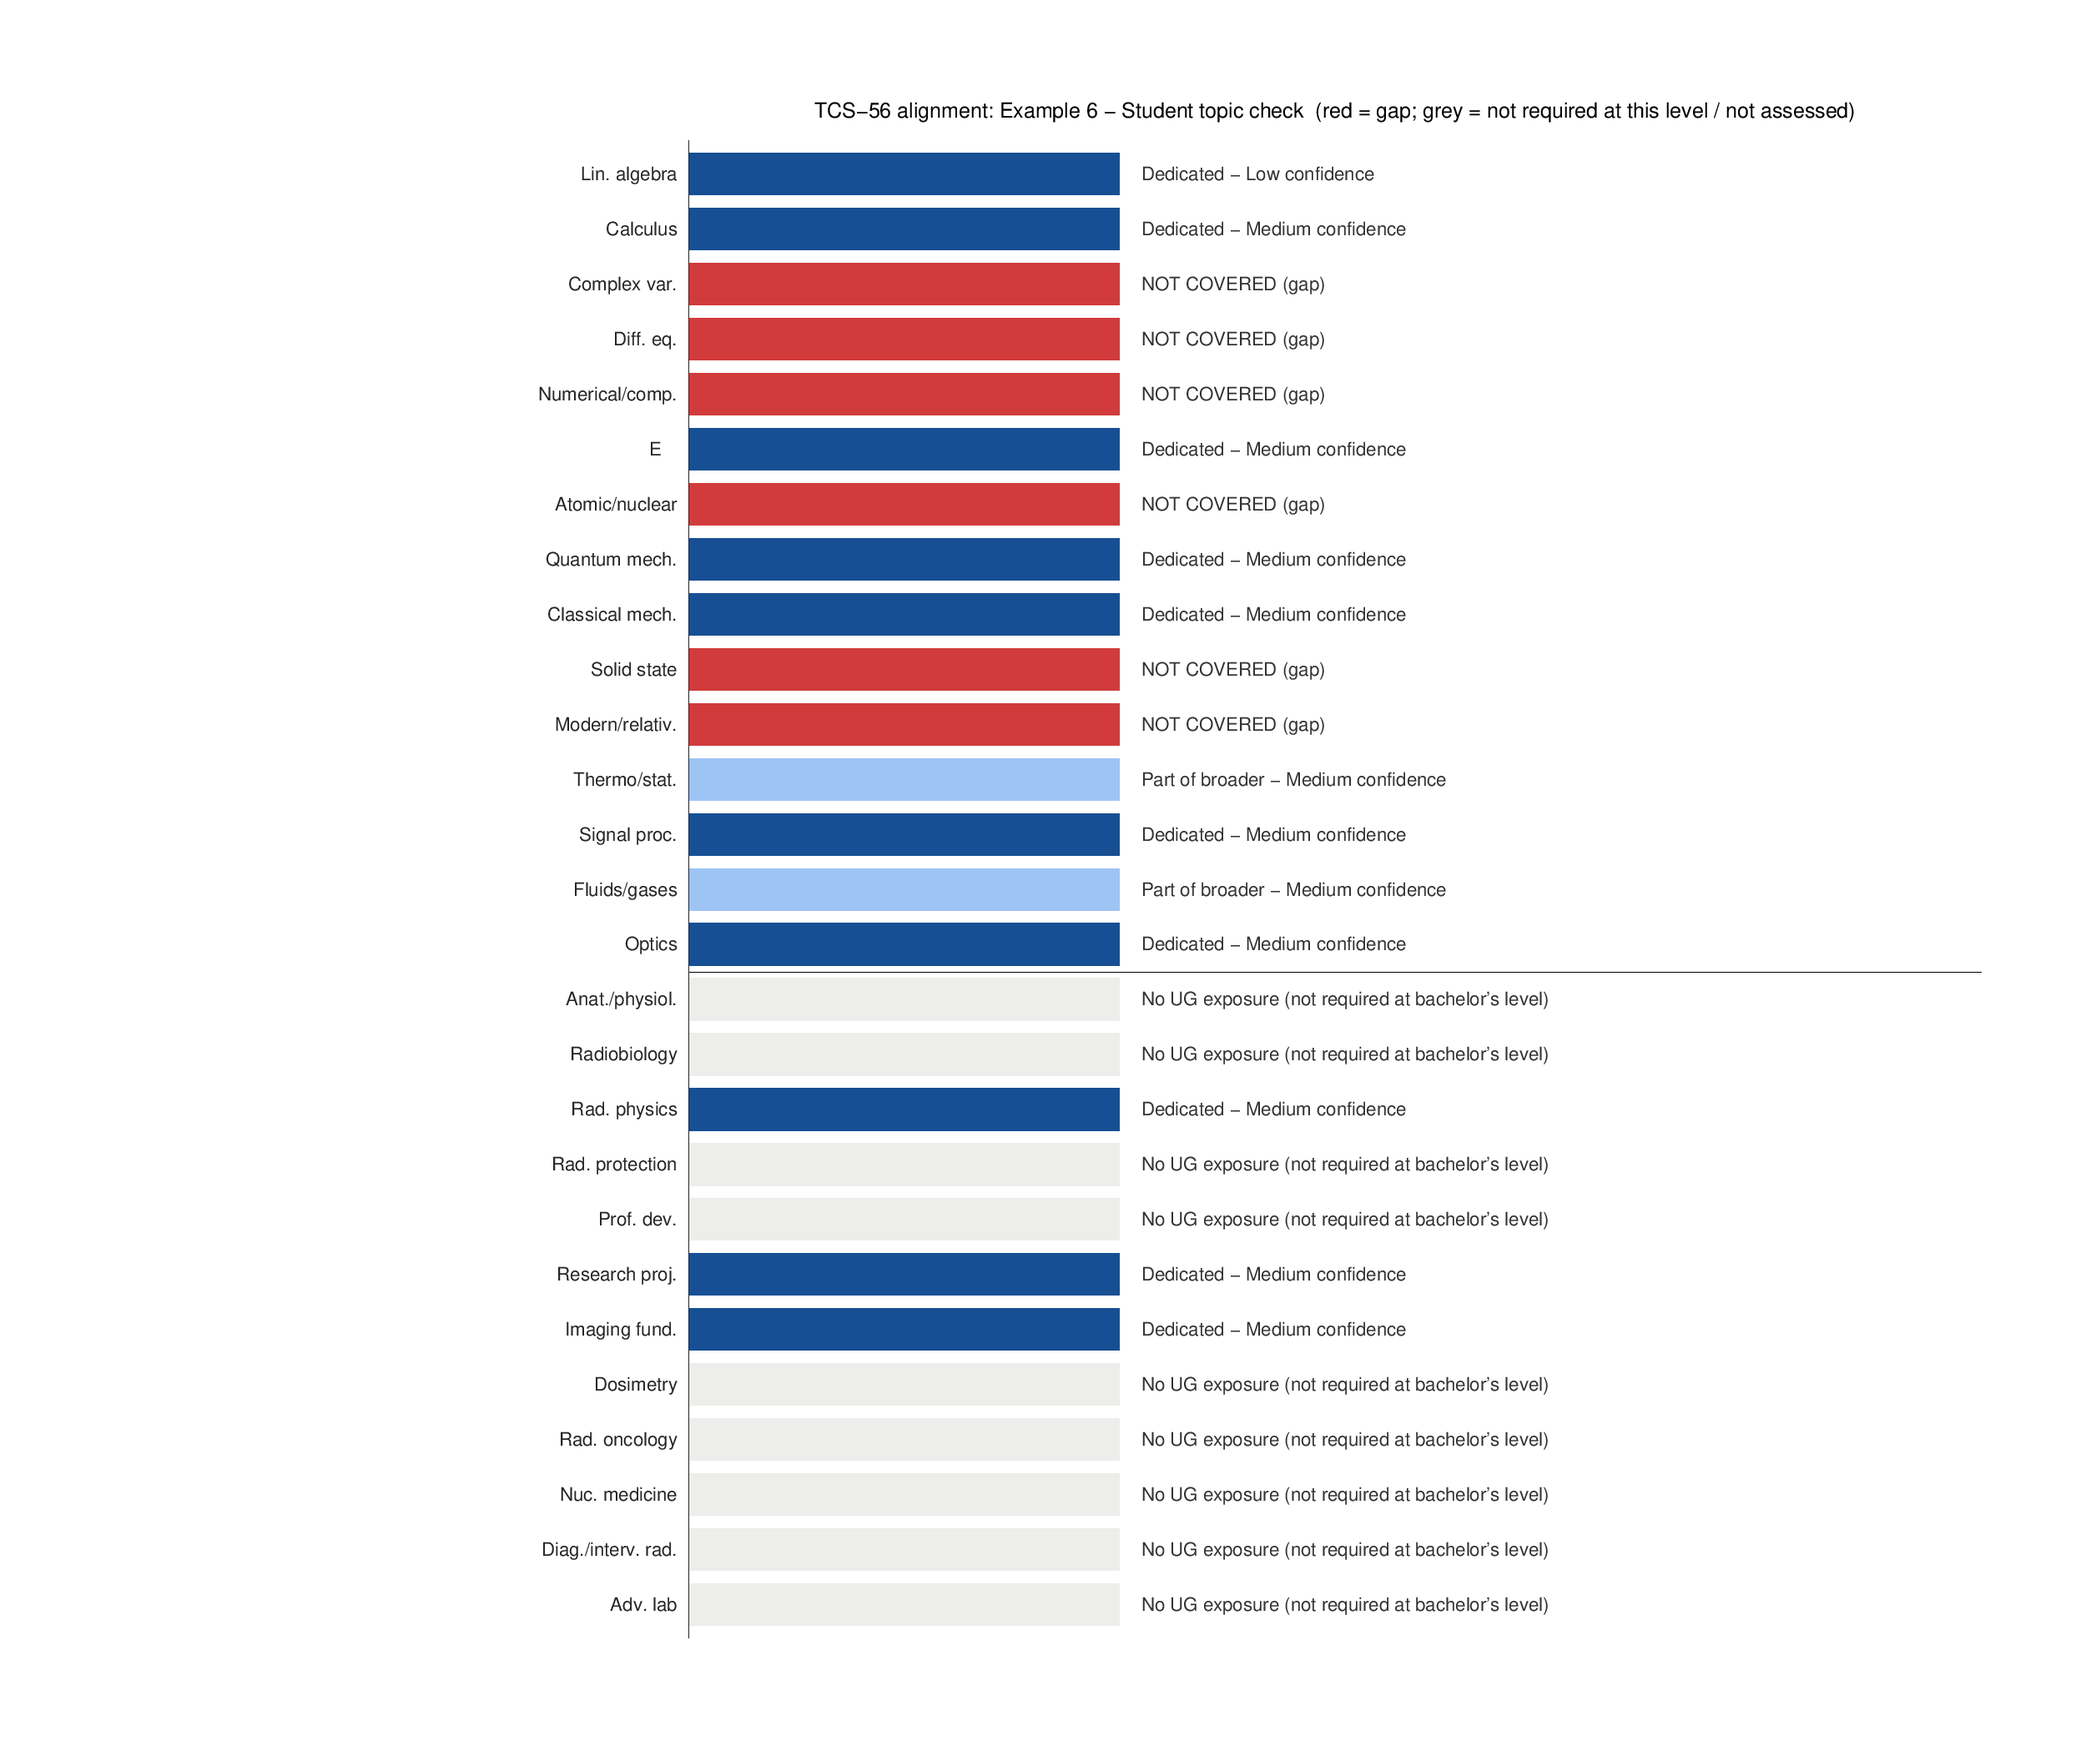
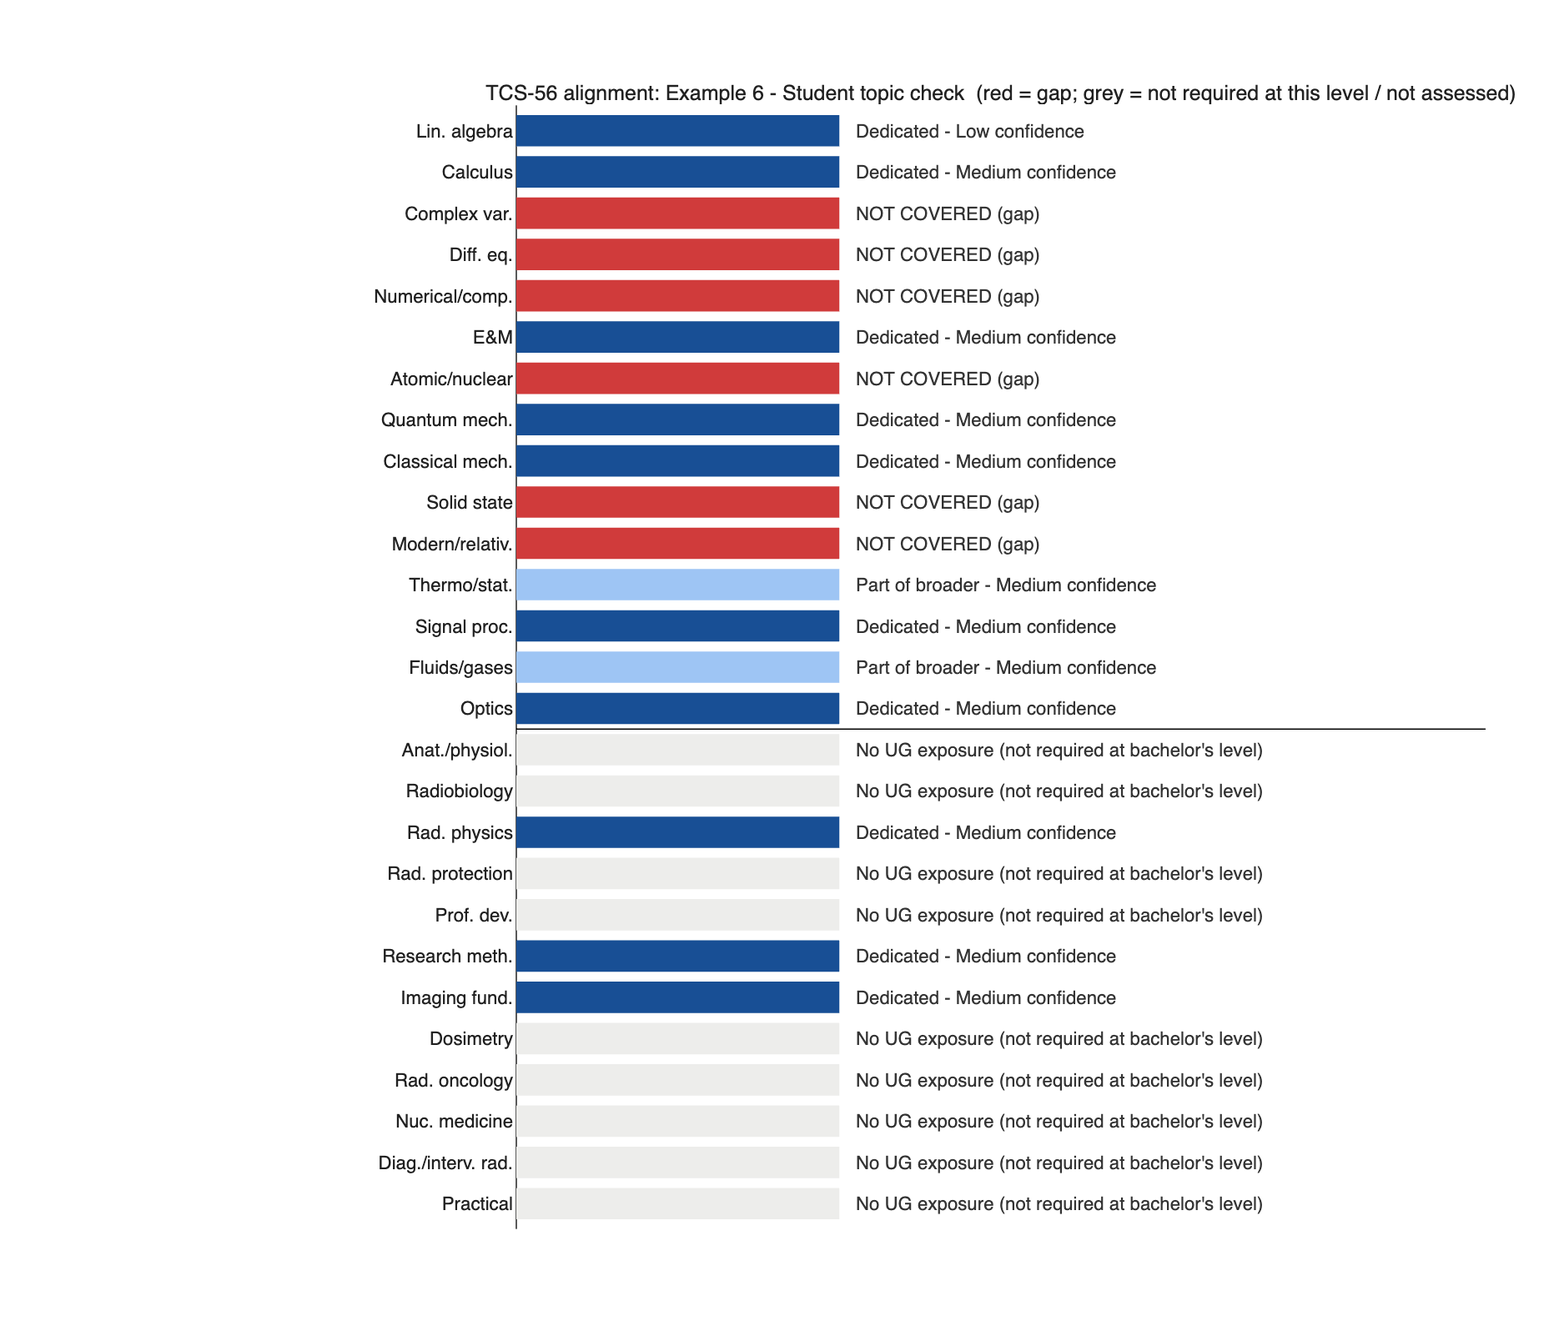
Regenerate example 6 output in MATLAB (TCS-56 item names)
Claude-Session: https://claude.ai/code/session_017GkgYiC1FGVQHbA2DuZDiu

Changed region(s): [[0.2475, 0.0619, 0.9589, 0.928]]

diff --git a/examples/output/ex6/assessment_report.md b/examples/output/ex6/assessment_report.md
@@ -1,6 +1,6 @@
 # TCS-56 alignment: Example 6 - Student topic check
 
-Level: Bachelor. Input: Student (topics only). Generated 2026-11-16.
+Level: Bachelor. Input: Student (topics only). Generated 2026-11-20.
 
 ## Summary
 
@@ -36,13 +36,13 @@ Level: Bachelor. Input: Student (topics only). Generated 2026-11-16.
 | Radiation Physics | Dedicated | Medium | Radiation physics (Medium) |  |
 | Radiation Protection | Not covered |  |  | No undergraduate exposure found. TCS-56 places this item in the postgraduate curriculum, so this is not a bachelor's-level gap. |
 | Professional and Scientific Development | Not covered |  |  | No undergraduate exposure found. TCS-56 places this item in the postgraduate curriculum, so this is not a bachelor's-level gap. |
-| Research Project | Dedicated | Medium | Final year project (Medium) |  |
+| Research Methodology | Dedicated | Medium | Final year project (Medium) |  |
 | Medical Imaging Fundamentals | Dedicated | Medium | Medical imaging (Medium) |  |
 | Radiation Dosimetry | Not covered |  |  | No undergraduate exposure found. TCS-56 places this item in the postgraduate curriculum, so this is not a bachelor's-level gap. |
 | Physics of Radiation Oncology | Not covered |  |  | No undergraduate exposure found. TCS-56 places this item in the postgraduate curriculum, so this is not a bachelor's-level gap. |
 | Physics of Nuclear Medicine | Not covered |  |  | No undergraduate exposure found. TCS-56 places this item in the postgraduate curriculum, so this is not a bachelor's-level gap. |
 | Physics of Diagnostic and Interventional Radiology | Not covered |  |  | No undergraduate exposure found. TCS-56 places this item in the postgraduate curriculum, so this is not a bachelor's-level gap. |
-| Advanced topics laboratory | Not covered |  |  | No undergraduate exposure found. TCS-56 places this item in the postgraduate curriculum, so this is not a bachelor's-level gap. |
+| Practical Sessions | Not covered |  |  | No undergraduate exposure found. TCS-56 places this item in the postgraduate curriculum, so this is not a bachelor's-level gap. |
 
 ## Gaps
 
